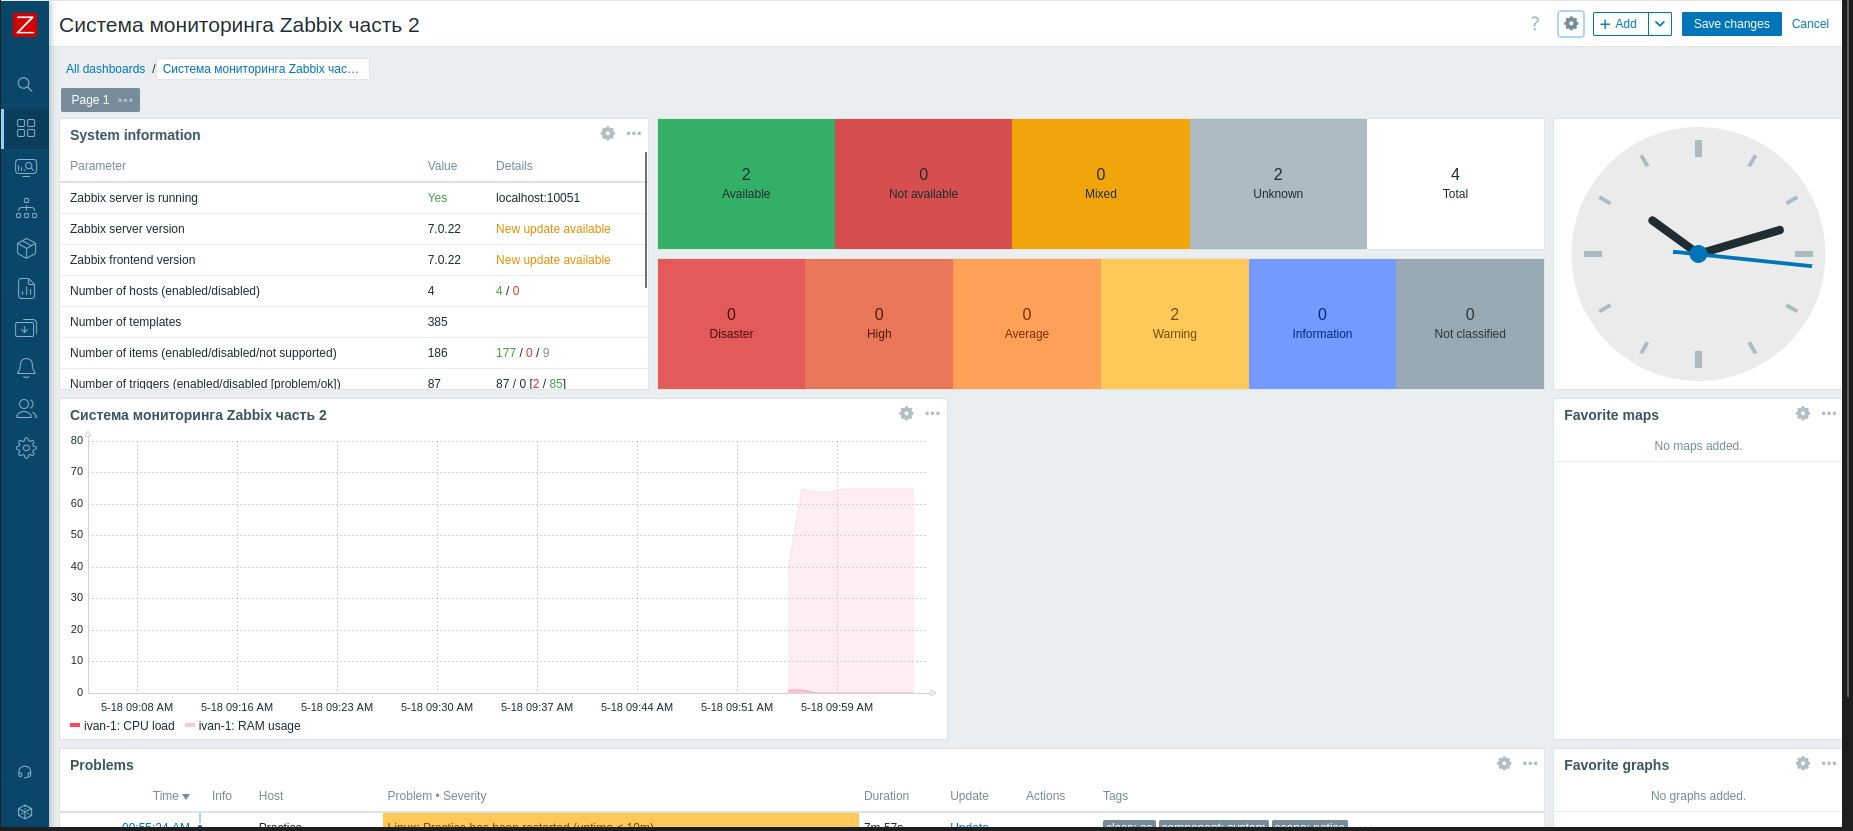
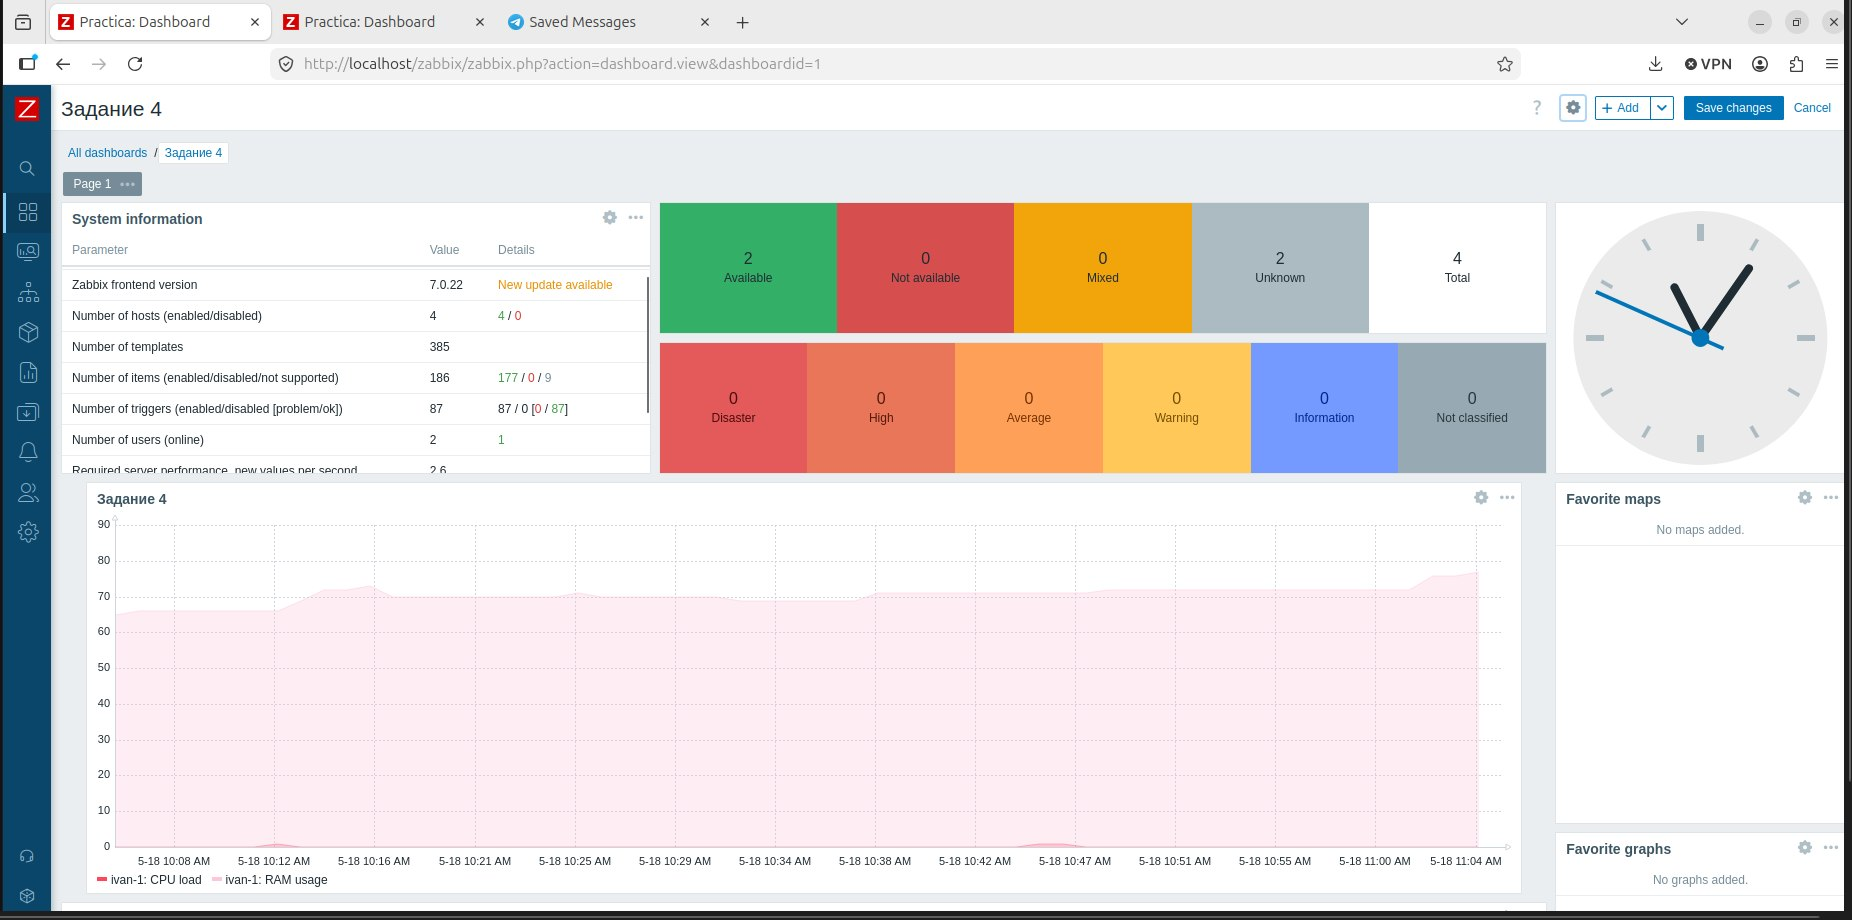
fix README and add task1 screenshot

diff --git a/README.md b/README.md
@@ -16,6 +16,8 @@
 Скриншот:
 
 ![CPU/RAM](screenshots/1.jpg)
+![CPU/RAM](screenshots/Task1.jpg)
+
 
 ---
 